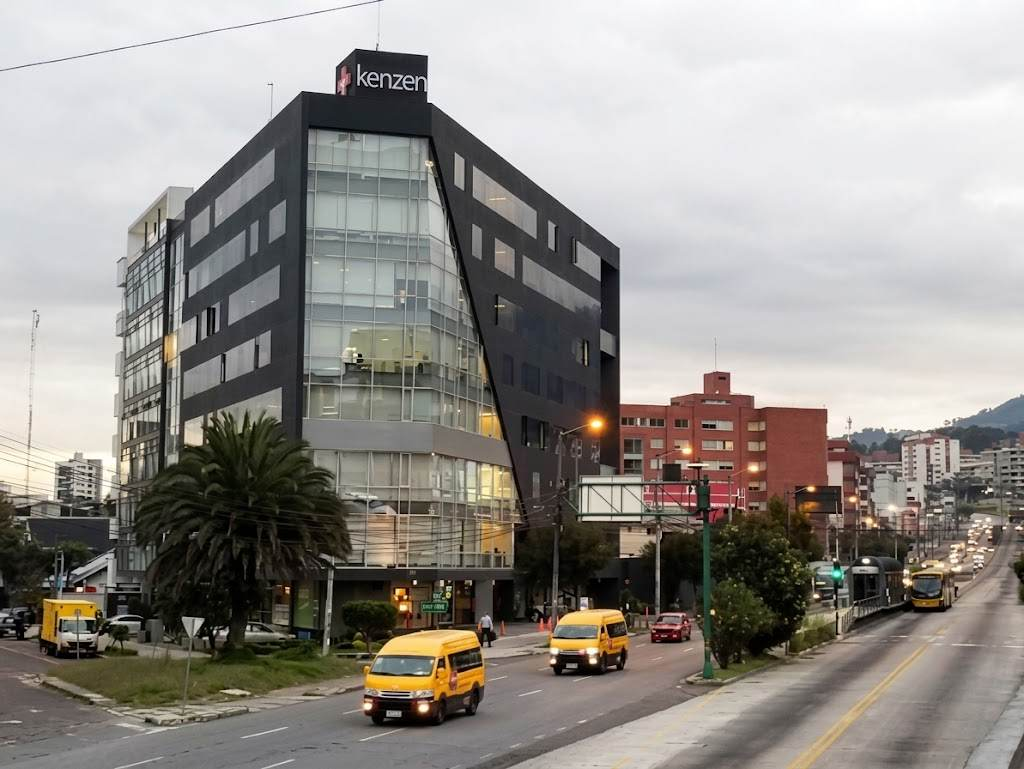
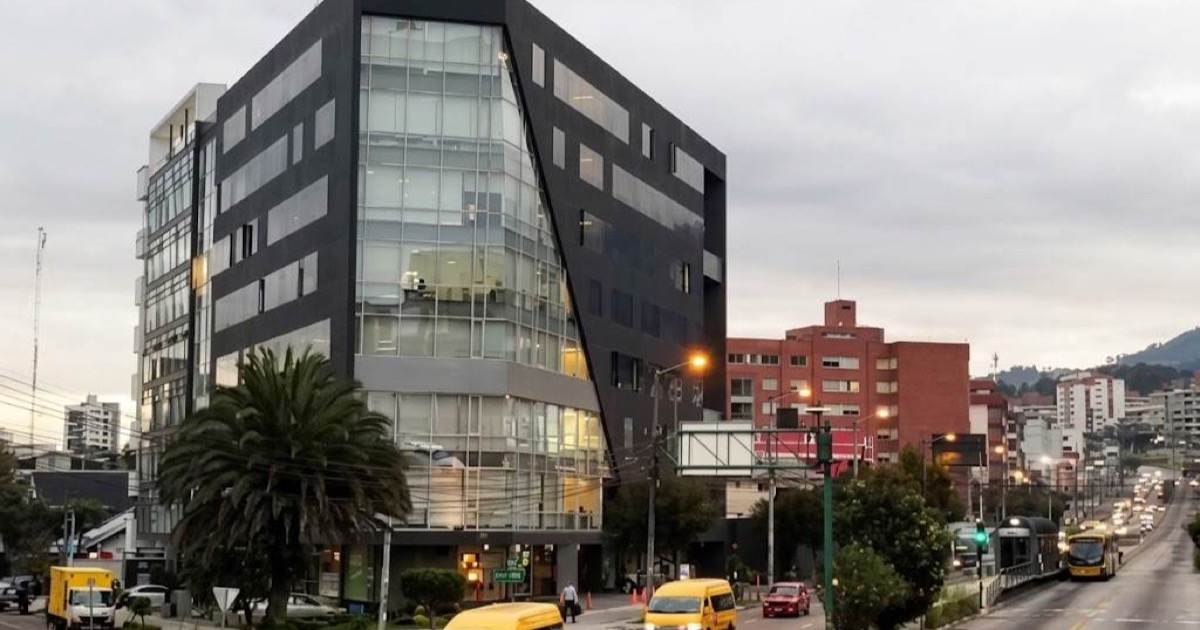
fix: OG image 1200x630 ratio + shorten descriptions under 125 chars
Resized og-image.jpg from 1024x769 to 1200x630 (1.91:1 ratio) to
prevent cropping on social platforms. Shortened 6 route descriptions
from 130-157 chars to under 125 for proper social preview display.

diff --git a/server.ts b/server.ts
@@ -224,19 +224,19 @@ async function startServer() {
     const routes: Record<string, { title: string; description: string; keywords: string; og_image: string }> = {
       '/': {
         title: 'Colmedikal | Medicina Prepagada en Ecuador — Planes Familia e Individual',
-        description: 'Compara planes de medicina prepagada en Ecuador. Cobertura completa sin IESS obligatorio, acceso a médicos especialistas y clínicas privadas desde $35/mes.',
+        description: 'Planes de medicina prepagada en Ecuador desde $8/mes. Acceso directo a especialistas y clinicas privadas.',
         keywords: 'medicina prepagada Ecuador, seguro médico privado, plan médico familia, Colmedikal',
         og_image: 'https://colmedikal.com/og-image.jpg',
       },
       '/servicios': {
         title: 'Servicios de Medicina Prepagada | Colmedikal Ecuador',
-        description: 'Conoce todos los servicios de Colmedikal: hospitalización, cirugías, maternidad, atención ambulatoria y más. Planes desde $35 al mes.',
+        description: 'Servicios Colmedikal: hospitalizacion, cirugias, maternidad y atencion ambulatoria. Planes desde $8/mes.',
         keywords: 'servicios medicina prepagada, hospitalización privada Ecuador, maternidad prepagada',
         og_image: 'https://colmedikal.com/og-image.jpg',
       },
       '/directorio': {
         title: 'Directorio de Médicos Especialistas y Clínicas | Colmedikal Ecuador',
-        description: 'Encuentra médicos especialistas, clínicas y hospitales en Ecuador. Directorio verificado con profesionales de salud en Quito, Guayaquil y todo el país.',
+        description: 'Directorio de medicos especialistas y clinicas en Ecuador. Profesionales en Quito, Guayaquil y todo el pais.',
         keywords: 'médicos especialistas Ecuador, directorio médico Quito, clínicas privadas Ecuador',
         og_image: 'https://colmedikal.com/og-image.jpg',
       },
@@ -248,7 +248,7 @@ async function startServer() {
       },
       '/cotizador': {
         title: 'Cotiza tu Plan de Medicina Prepagada | Colmedikal Ecuador',
-        description: 'Cotiza en línea tu plan de medicina prepagada. Precios personalizados según edad y tipo de cobertura. Sin compromisos ni papeleo.',
+        description: 'Cotiza tu plan de medicina prepagada en linea. Precios segun edad y cobertura, sin compromisos.',
         keywords: 'cotizar medicina prepagada Ecuador, precio plan médico familiar, cotizador seguro salud',
         og_image: 'https://colmedikal.com/og-image.jpg',
       },
@@ -266,13 +266,13 @@ async function startServer() {
       },
       '/faqs': {
         title: 'Preguntas Frecuentes sobre Medicina Prepagada | Colmedikal',
-        description: '¿Qué es la medicina prepagada? ¿En qué se diferencia del IESS? Resolvemos todas tus dudas sobre planes médicos privados en Ecuador.',
+        description: 'Resolvemos tus dudas sobre medicina prepagada: carencias, copagos, reembolsos y preexistencias.',
         keywords: 'preguntas medicina prepagada, diferencia IESS seguro privado, cómo funciona prepagada',
         og_image: 'https://colmedikal.com/og-image.jpg',
       },
       '/contacto': {
         title: 'Contacto | Colmedikal Ecuador — Asesores de Medicina Prepagada',
-        description: 'Contáctanos para asesoría personalizada sobre planes de medicina prepagada en Ecuador. WhatsApp, email y atención presencial disponibles.',
+        description: 'Contacta a Colmedikal: asesoria sobre planes de salud. WhatsApp, email y atencion presencial.',
         keywords: 'contacto Colmedikal, asesor medicina prepagada Ecuador, WhatsApp salud',
         og_image: 'https://colmedikal.com/og-image.jpg',
       },
